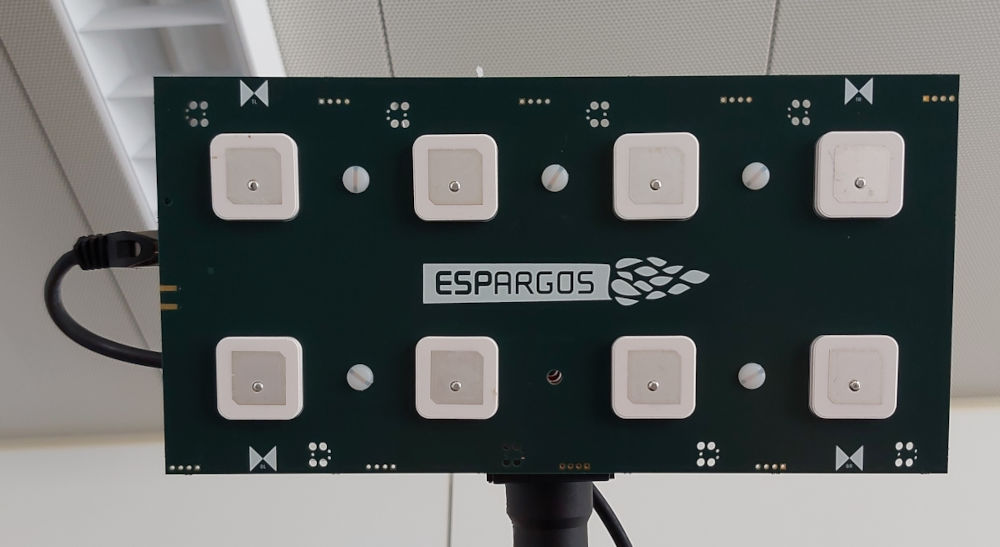
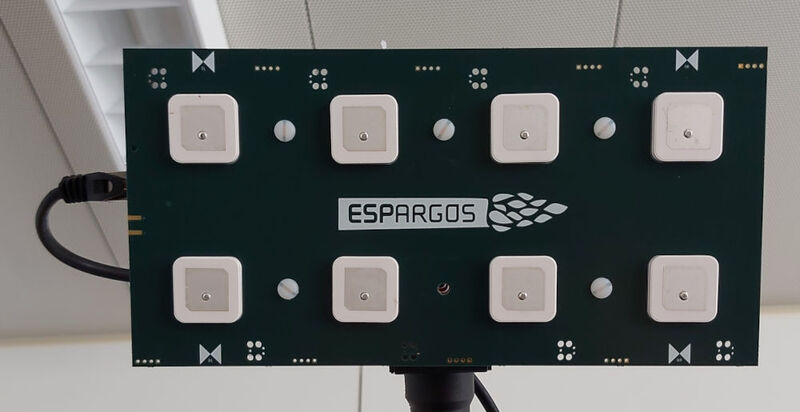
Make sure both ESPARGOS revision photos use same pixel size

diff --git a/README.md b/README.md
@@ -14,8 +14,8 @@ The library supports combining multiple ESPARGOS arrays into larger antenna arra
 		<th>Your ESPARGOS looks like this:</th>
 	</tr>
 	<tr>
-		<td><img src="img/espargosv2.jpg" height="300px"></td>
-		<td><img src="img/espargosv1.jpg" height="300px"></td>
+		<td><img src="img/espargosv2.jpg" width="600"></td>
+		<td><img src="img/espargosv1.jpg" width="600"></td>
 	</tr>
 	<tr>
 		<td>&rarr; You have the current ESPARGOS, please use the <code>main</code> branch of this repository.</td>
